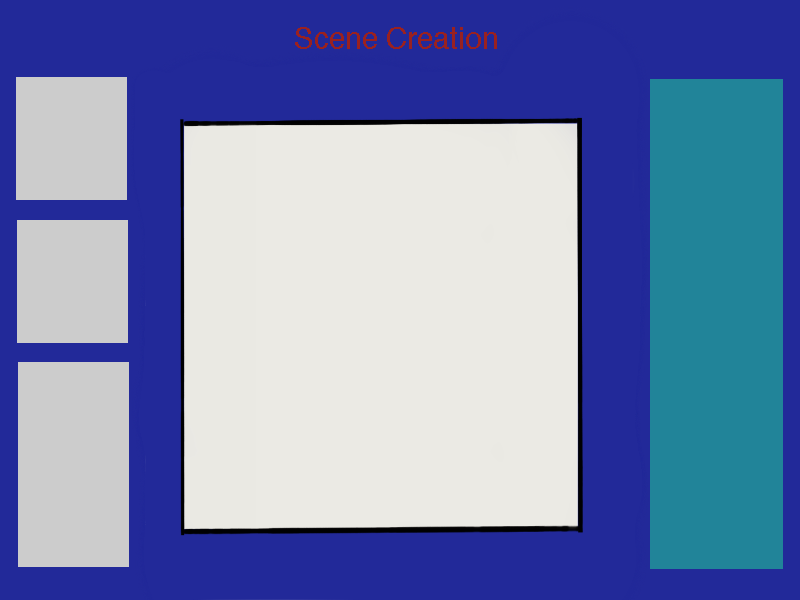
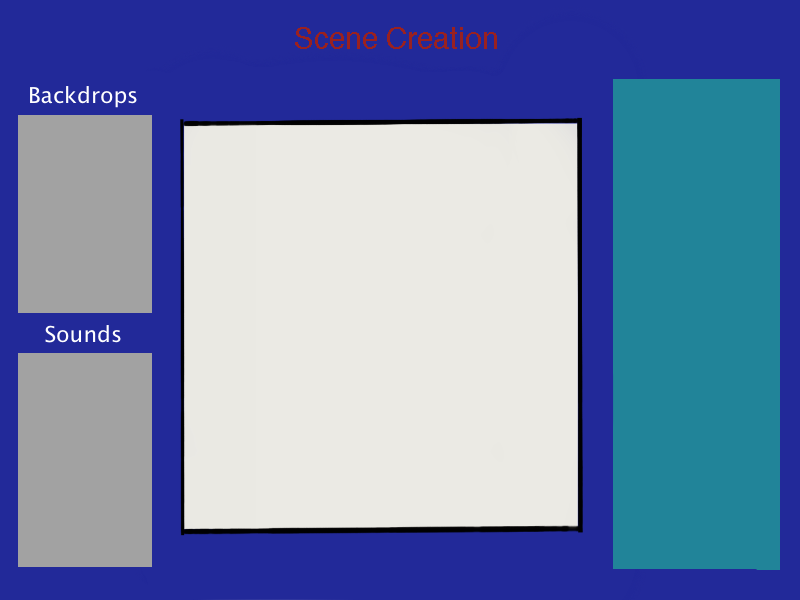
Backdrops work

Changed region(s): [[0.0, 0.12, 0.1875, 0.96], [0.75, 0.12, 0.8125, 0.96], [0.9688, 0.15, 1.0, 0.93]]

diff --git a/Assets/Afternoon/Scripts/AfternoonManager.cs b/Assets/Afternoon/Scripts/AfternoonManager.cs
@@ -1,6 +1,7 @@
 using UnityEngine;
 using System;
 using System.Collections;
+using System.Collections.Generic;
 
 public class AfternoonManager : SceneManager {
 	NetworkManager mNetworkManager;
@@ -10,7 +11,70 @@ public class AfternoonManager : SceneManager {
 	Recorder mRecorder;
 	GameObject mScreen;
 
+	GameObject mBackdropPrefab;
+
+	Dictionary<PurchasedBackdrop, AfternoonBackdrop> mBackdropMap = new Dictionary<PurchasedBackdrop, AfternoonBackdrop>();
+
 	public bool uRecording = false;
+
+	public PurchasedBackdrop[] uPurchasedBackdrops {
+		get {
+			List<PurchasedBackdrop> backdrops = new List<PurchasedBackdrop>();
+			foreach(KeyValuePair<string, PurchasedProp> kv in mNetworkManager.myPlayer.uPurchasedProps) {
+				if (kv.Value.GetType() == typeof(PurchasedBackdrop)) {
+					backdrops.Add ((PurchasedBackdrop)kv.Value);
+				}
+			}
+			return backdrops.ToArray ();
+		}
+	}
+
+	public string[] uPurchasedBackdropStrings {
+		get {
+			int i = 1;
+			List<string> set = new List<string>();
+			foreach(PurchasedBackdrop p in uPurchasedBackdrops) {
+				set.Add (i.ToString () + " " + p.uProp.uName);
+				i++;
+			}
+			return set.ToArray ();
+		}
+	}
+
+
+	public void BackdropClicked( dfControl control, System.Int32 value ) {
+		PurchasedBackdrop p = uPurchasedBackdrops[value];
+		ActivateBackdrop(p);
+	}
+
+	public void ActivateBackdrop(PurchasedBackdrop pBackdrop) {
+		foreach(KeyValuePair<PurchasedBackdrop, AfternoonBackdrop> kvp in mBackdropMap) {
+			if (!(kvp.Key == pBackdrop)) {
+				kvp.Value.Hide ();
+			} else {
+				kvp.Value.Show ();
+			}
+		}
+	}
+
+	void KeyPressed(int i) {
+		if (i > uPurchasedBackdrops.Length) {
+			i -= uPurchasedBackdrops.Length;
+			// Now use i against the sounds
+			return;
+		}
+
+		ActivateBackdrop (uPurchasedBackdrops[i - 1]);
+	}
+
+	void Update() {
+		for(int i = 0; i < 10; i++) {
+			if (Input.GetKeyDown (i.ToString ())) {
+				// Activate this backdrop/sound
+				KeyPressed(i);
+			}
+		}
+	}
 
 	public string uStateText {
 		get {
@@ -47,6 +111,7 @@ public class AfternoonManager : SceneManager {
 		mGame = (Game) FindObjectOfType (typeof(Game));
 		mRecorder = (Recorder)FindObjectOfType(typeof(Recorder));
 		mScreen = GameObject.FindGameObjectWithTag("Screen");
+		mBackdropPrefab = (GameObject)Resources.Load ("Afternoon/Prefabs/Backdrop");
 	}
 
 	void Start () {
@@ -117,6 +182,23 @@ public class AfternoonManager : SceneManager {
 		}
 
 		mDialogueManager.EndDialogue();
+
+
+		// First, instatiate all of the backdrops
+		foreach (PurchasedBackdrop purchasedBackdrop in uPurchasedBackdrops) {
+			GameObject g = (GameObject) Instantiate(mBackdropPrefab, Vector3.zero, Quaternion.identity);
+			g.transform.parent = mScreen.transform;
+
+			dfTextureSprite sprite = (dfTextureSprite)g.GetComponent (typeof(dfTextureSprite));
+			sprite.Position = new Vector2(0, 550);
+			sprite.Texture = (Texture2D)Resources.Load("Props/" + purchasedBackdrop.uProp.uID);
+
+			RecordingProp r = (RecordingProp)g.GetComponent (typeof(RecordingProp));
+			r.uPurchasedProp = purchasedBackdrop;
+
+			mBackdropMap.Add (purchasedBackdrop, g.GetComponent<AfternoonBackdrop>());
+		}
+
 
 		uRecording = false;
 		Action finishedPreparing =

diff --git a/Assets/Scripts/Player.cs b/Assets/Scripts/Player.cs
@@ -198,10 +198,12 @@ public class Player : MonoBehaviour {
 		get {
 			List<Backdrop> backdrops = new List<Backdrop>();
 			backdrops.AddRange(uAvailableBackdrops);
-//			foreach(KeyValuePair<string, PurchasedBackdrop> p in uPurchasedBackdrops) {
-//				PurchasedBackdrop purchasedBackdrop = p.Value;
-//				backdrops.Remove (purchasedBackdrop.uProp);
-//			}
+			foreach(KeyValuePair<string, PurchasedProp> p in uPurchasedProps) {
+				Backdrop backdrop = p.Value.uProp as Backdrop;
+				if (backdrop != null) {
+					backdrops.Remove (backdrop);
+				}
+			}
 			return backdrops.ToArray();
 		}
 	}
@@ -326,6 +328,39 @@ public class Player : MonoBehaviour {
 //		if (networkView.isMine) {
 //			networkView.RPC ("PurchaseProp", RPCMode.Others, prop.uID);
 //		}
+	}
+
+	[RPC] public void PurchaseBackdrop(string pBackdropID) {
+		Backdrop prop = mGame.uBackdrops[pBackdropID];
+		// Check that there is a prop.uID available
+		bool propAvailable = false;
+		foreach(Prop p in uUnpurchasedBackdrops) {
+			if (p.uID == prop.uID) {
+				propAvailable = true;
+				break;
+			}
+		}
+		
+		if (!propAvailable) {
+			return;
+		}
+		
+		// Check that we have enough money
+		if (uBudget < prop.uPrice) {
+			return;
+		}
+		
+		// Add the prop to our props, and take away the money
+		PurchasedBackdrop purchasedProp = new PurchasedBackdrop(prop);
+		uPurchasedProps.Add(purchasedProp.uID, purchasedProp);
+		uBudget -= prop.uPrice;
+		
+		mSceneManager.PropPurchased(this, purchasedProp);
+		
+		// I don't think we need to sync buying and selling
+		//		if (networkView.isMine) {
+		//			networkView.RPC ("PurchaseProp", RPCMode.Others, prop.uID);
+		//		}
 	}
 
 	[RPC] public void SellProp(string pPurchasedPropID) {

diff --git a/Assets/Afternoon/Scripts/AfternoonBackdrop.cs b/Assets/Afternoon/Scripts/AfternoonBackdrop.cs
@@ -1,0 +1,39 @@
+using UnityEngine;
+using System.Collections;
+
+public class AfternoonBackdrop : MonoBehaviour {
+	int mMode = 0; // -1 means hiding, 1 means showing, 0 means do nothign
+
+	const float MOVEMENT_SPEED = 140;
+
+	dfTextureSprite mSprite;
+
+	void Awake() {
+		mSprite = GetComponent<dfTextureSprite>();
+	}
+
+	public void Show() {
+		mMode = 1;
+	}
+
+	public void Hide() {
+		mMode = -1;
+		mSprite.SendToBack();
+	}
+
+	void Update() {
+		if (mMode == 1) {
+			mSprite.Position = new Vector2(0, mSprite.Position.y - Time.deltaTime * MOVEMENT_SPEED);
+			if (mSprite.Position.y <= 0) {
+				mSprite.Position = new Vector2(0,0);
+				mMode = 0;
+			}
+		} else if (mMode == -1) {
+			mSprite.Position = new Vector2(0, mSprite.Position.y + Time.deltaTime * MOVEMENT_SPEED);
+			if (mSprite.Position.y >= 550) {
+				mSprite.Position = new Vector2(0,550);
+				mMode = 0;
+			}
+		}
+	}
+}

diff --git a/Assets/Scripts/Backdrop.cs b/Assets/Scripts/Backdrop.cs
@@ -2,26 +2,14 @@ using System;
 /**
  * This represents a backdrop which can exist in the system
  */
-public class Backdrop {
-	public string uID;
-	public string uName;
-	public int uPrice;
-	public string[] uTags;
-	
-	public Backdrop (string pID, string pName, int pPrice, string[] pTags) {
-		uID = pID;
-		uName = pName;
-		uPrice = pPrice;
-		uTags = pTags;
+public class Backdrop : Prop {
+	public Backdrop (string pID, string pName, int pPrice, string[] pTags) : base(pID, pName, pPrice, pTags) {
+
 	}
 }
 
-public class PurchasedBackdrop {
-	public string uID;
-	public Backdrop uBackdrop;
-	
-	public PurchasedBackdrop (Backdrop pBackdrop) {
-		uID = Guid.NewGuid().ToString();
-		uBackdrop = pBackdrop;
+public class PurchasedBackdrop : PurchasedProp {
+	public PurchasedBackdrop (Backdrop pBackdrop) : base(pBackdrop) {
+
 	}
 }

diff --git a/Assets/PropSelection/Scripts/PropSelectionManager.cs b/Assets/PropSelection/Scripts/PropSelectionManager.cs
@@ -170,7 +170,11 @@ public class PropSelectionManager : SceneManager {
 	 * The "Buy" button has been pressed
 	 */
 	public void BuySelectedProp() {
-		mNetworkManager.myPlayer.PurchaseProp(uSelectedProp.uID);
+		if (uSelectedProp != null) {
+			mNetworkManager.myPlayer.PurchaseProp(uSelectedProp.uID);
+		} else if (uSelectedBackdrop != null) {
+			mNetworkManager.myPlayer.PurchaseBackdrop(uSelectedBackdrop.uID);
+		}
 		mAvailablePropsList.SelectedIndex = -1;
 	}
 

diff --git a/Assets/Scripts/RecordingChange.cs b/Assets/Scripts/RecordingChange.cs
@@ -47,7 +47,11 @@ public class InstantiationChange : RecordingChange {
 		PlayingProp r = (PlayingProp)g.GetComponent (typeof(PlayingProp));
 		r.uID = mID;
 		Game mGame = GameObject.FindObjectOfType<Game>();
-		r.uProp = mGame.uProps[mPropID];
+		if (mGame.uProps.ContainsKey(mPropID)) {
+			r.uProp = mGame.uProps[mPropID];
+		} else if (mGame.uBackdrops.ContainsKey(mPropID)) {
+			r.uProp = mGame.uBackdrops[mPropID];
+		}
 		sprite.enabled = true;
 	}
 }

diff --git a/Assets/Scripts/Game.cs b/Assets/Scripts/Game.cs
@@ -16,7 +16,7 @@ public class Game : MonoBehaviour {
 	public const bool DEBUG_MODE = false;
 
 	public const int LOBBY_COUNTDOWN = 6;
-	public const int PROP_SELECTION_COUNTDOWN = 10; // 60
+	public const int PROP_SELECTION_COUNTDOWN = 60; // 60
 	public const int PREPARING_COUNTDOWN = 5; // 30
 	public const int RECORDING_COUNTDOWN = 30; // 30
 	public const int EVENING_PREPARING_COUNTDOWN = 5;

diff --git a/Assets/Afternoon/Scripts/Props.cs b/Assets/Afternoon/Scripts/Props.cs
@@ -24,7 +24,9 @@ public class Props : MonoBehaviour {
 	void Start() {
 		// Here we just need to look at the props available to the current player and populate it automatically
 		foreach(KeyValuePair<string, PurchasedProp> kv in mNetworkManager.myPlayer.uPurchasedProps) {
-			Add (kv.Value);
+			if (kv.Value.GetType() == typeof(PurchasedProp)) {
+				Add (kv.Value);
+			}
 		}
 	}
 	
